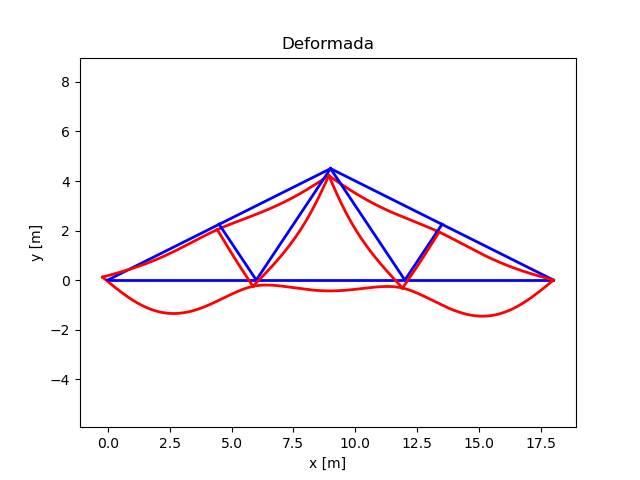
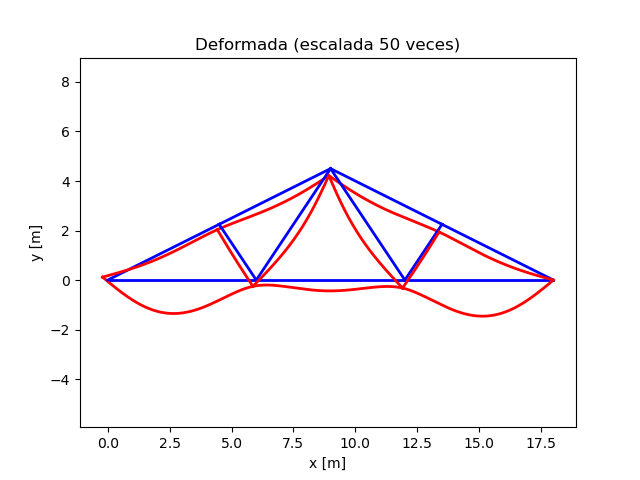
Agregando escala al grafico

Changed region(s): [[0.3125, 0.0625, 0.7188, 0.125]]

diff --git a/codigo/repaso_matricial/general_2D/ejemplo_portico_2D_con_deformada.py b/codigo/repaso_matricial/general_2D/ejemplo_portico_2D_con_deformada.py
@@ -208,7 +208,7 @@ q_global = q.reshape((nno,3))
 xdef = xnod + esc_def*vect_mov[:,[X, Y]]
 
 plt.figure(2)  
-plt.title('Deformada')
+plt.title(f'Deformada (escalada {esc_def} veces)')
 plt.xlabel(f'x [{U_LONG}]')
 plt.ylabel(f'y [{U_LONG}]')
 plt.axis('equal')
